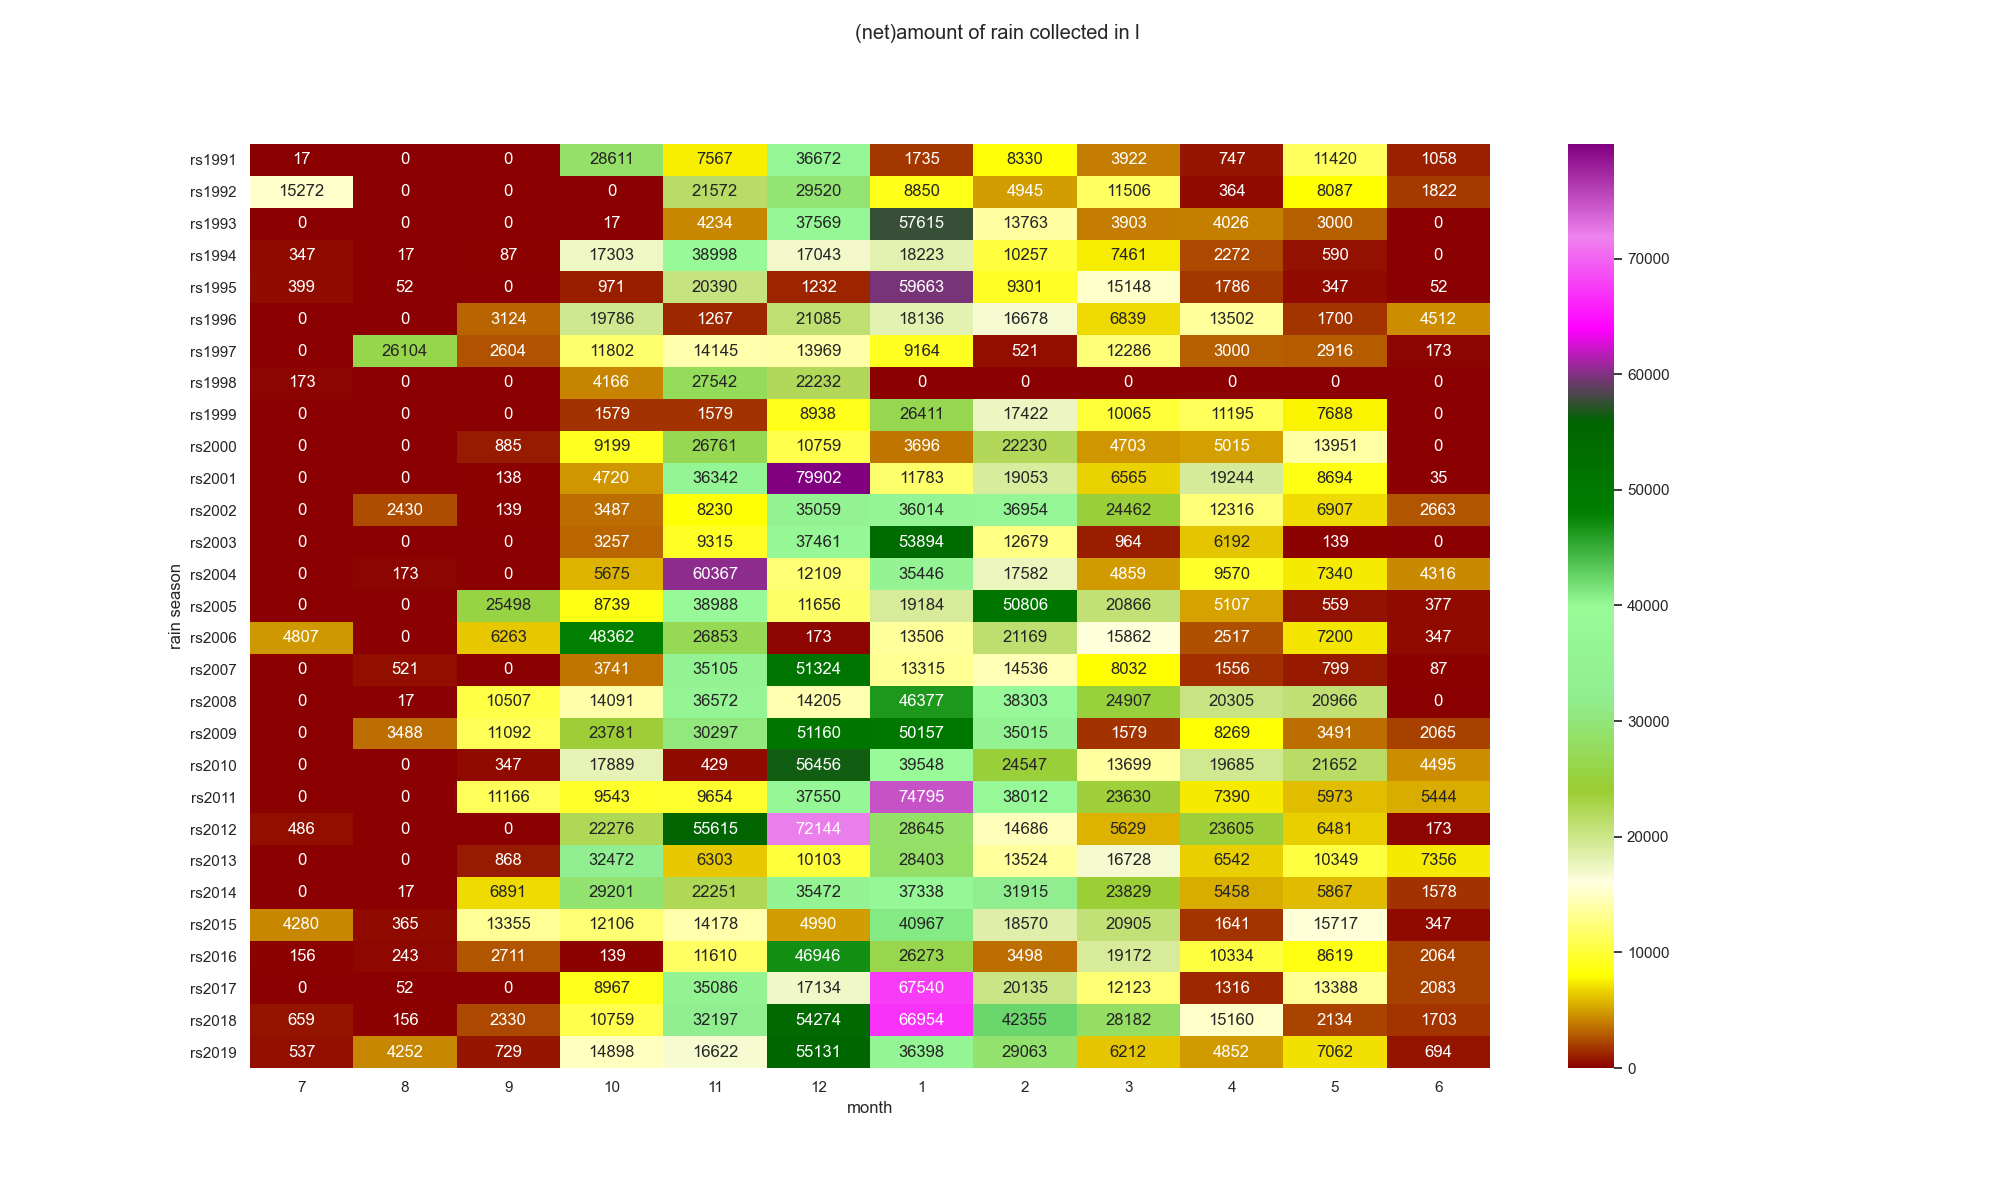
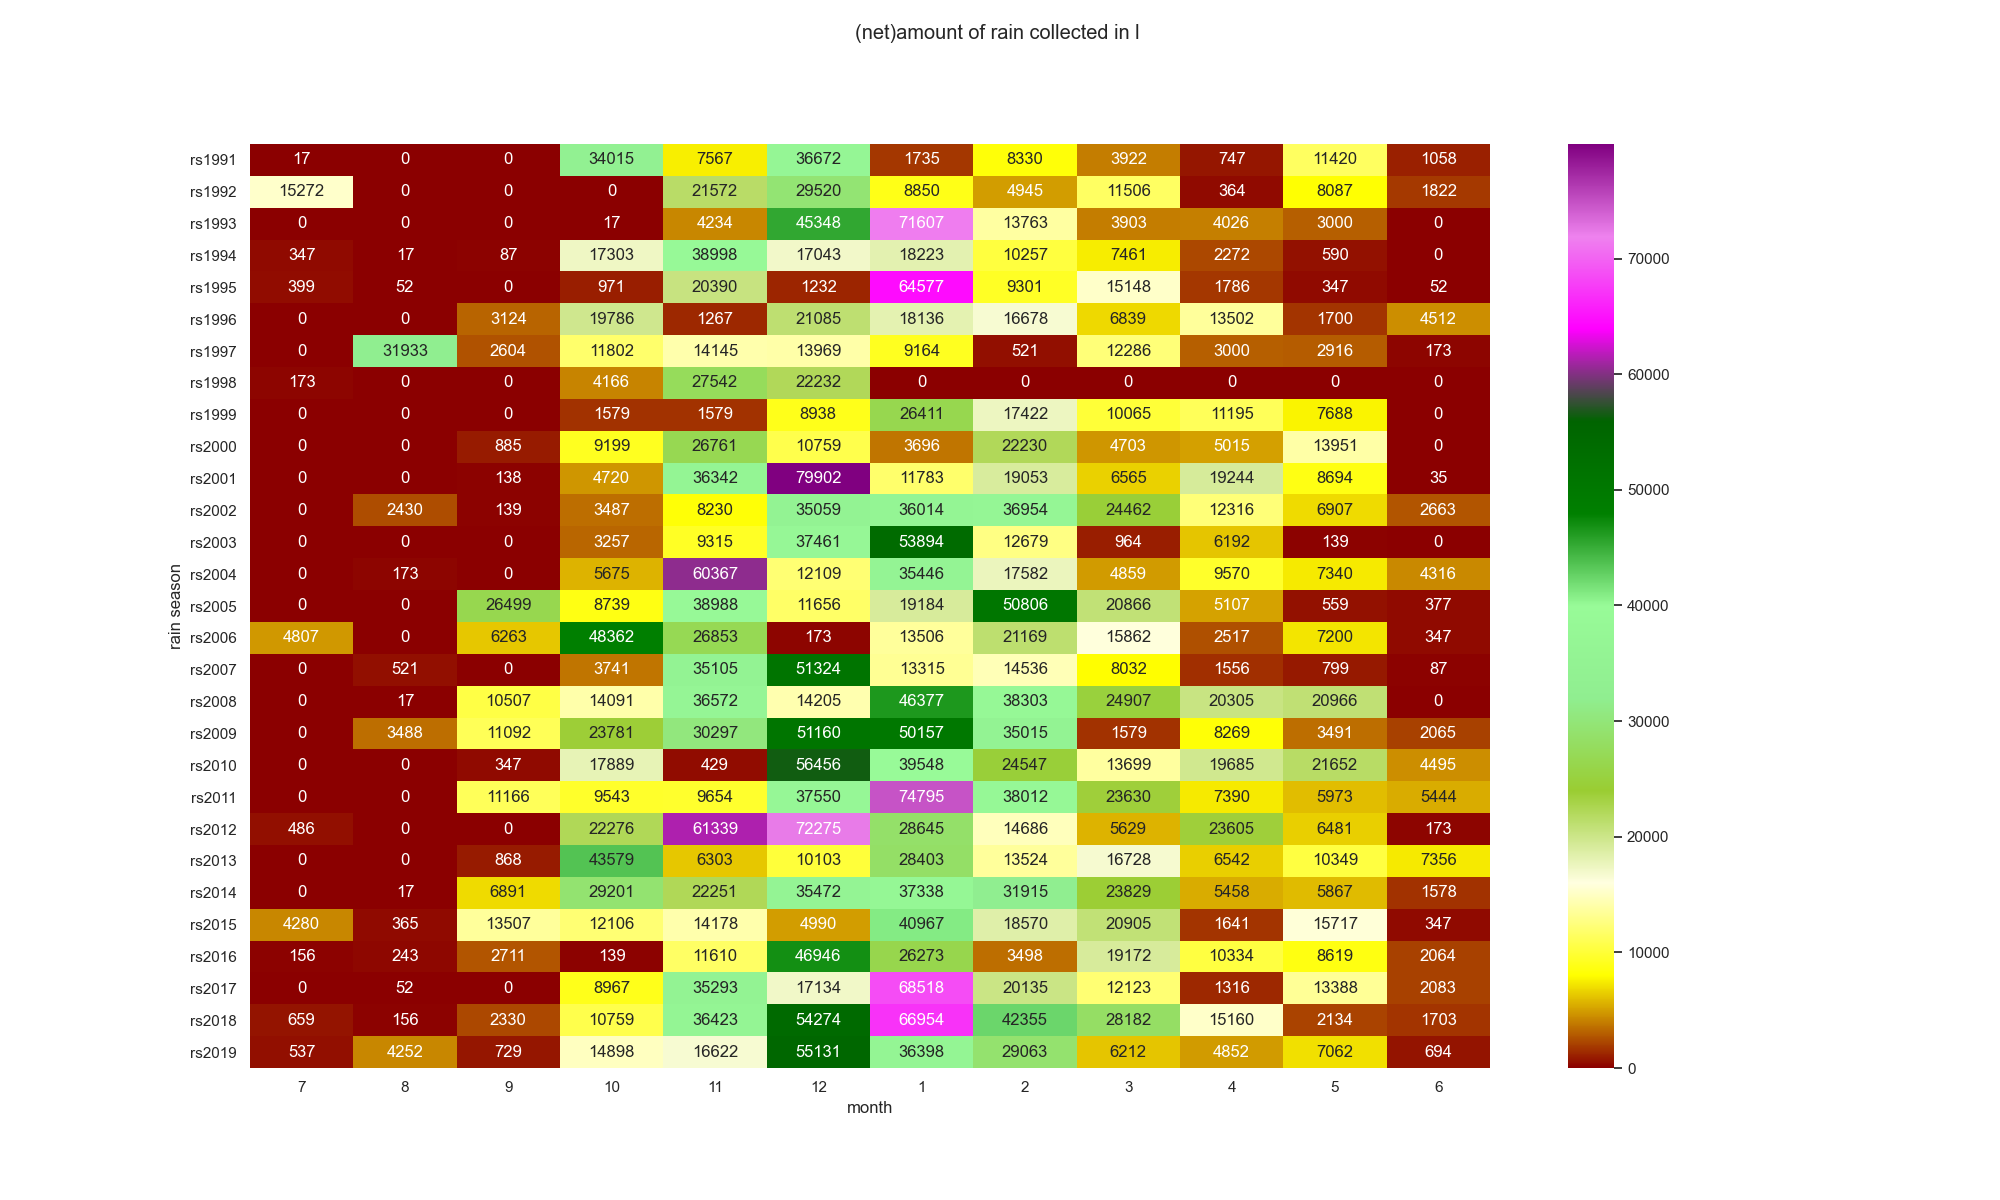
tank sizes changed

diff --git a/scripts/weather_overview.py b/scripts/weather_overview.py
@@ -96,8 +96,8 @@ def init_rwh_data(rwh_data):
 def calc_rwh_collection\
     ( df_tmp
       , roof_name
-      , max_filter_throughput
       , max_pipe_throughput
+      , max_filter_throughput
       , effective_collection_area
       , rain_buffer_volume
       , show_data_overview=False):
@@ -249,6 +249,8 @@ def calc_rwh_system \
                     )
               )
               )
+    rwh_data['tank_empty'] = rwh_data['store_filled_pct'].apply(lambda x: 1 if x == 0.0 else 0).fillna(0)
+    rwh_data['tank_low'] = rwh_data['store_filled_pct'].apply(lambda x: 1 if x <= 0.1 else 0).fillna(0)
 
     if show_data_overview:
         print(rwh_data.info())
@@ -293,6 +295,8 @@ def group_rwh_data_ym(df, group_fields, show_data_overview=False):
              , stored_max=("stored", "max")
              , stored_grp_min=("store_filled_grp", "min")
              , stored_grp_max=("store_filled_grp", "max")
+             , tank_empty_sum=("tank_empty", "sum")
+             , tank_low_sum=("tank_low", "sum")
              , overrun_sum=("overrun", "sum")
              , net_overrun_sum=("net_overrun", "sum")
              , tank_overrun_sum=("tank_overrun", "sum")
@@ -365,20 +369,20 @@ def main():
     # default RWH parameters
     df, df_storm_gr\
         = calc_rwh_collection\
-            (df, "gr_"
-            , 35 # l/minute max_filter_throughput
-            , 870 # l/minute max_pipe_throughput
-            , 93 * 0.85 # effective_collection_area
-            , 3000 # rain_buffer_volume
+            (df, config['dwh']['r1_name']
+            , eval(config['dwh']['r1_max_pipe_throughput'])
+            , eval(config['dwh']['r1_max_filter_throughput'])
+            , eval(config['dwh']['r1_effective_collection_area'])
+            , eval(config['dwh']['r1_rain_buffer_volume'])
             , False
             )
     df, df_storm_mr\
         = calc_rwh_collection\
-            (df, "mr_"
-            , 999 # l/minute max_filter_throughput
-            , 870 # l/minute max_pipe_throughput
-            , 189 * 0.5  # effective_collection_area
-            , 3000 # rain_buffer_volume
+            (df, config['dwh']['r2_name']
+            , eval(config['dwh']['r2_max_pipe_throughput'])
+            , eval(config['dwh']['r2_max_filter_throughput'])
+            , eval(config['dwh']['r2_effective_collection_area'])
+            , eval(config['dwh']['r2_rain_buffer_volume'])
             , False
             )
     df, df_tank\

diff --git a/scripts/draw_charts.py b/scripts/draw_charts.py
@@ -5,10 +5,15 @@ import matplotlib.pyplot as plt
 from matplotlib.colors import LinearSegmentedColormap
 
 import weather_overview as data
+import setup_environment as env
 
 
+"""Show parameters"""
+env.set_pd_environments()
+# constants
+config = env.get_config()
 """Parameters"""
-cat_month = pd.CategoricalDtype([7, 8, 9, 10, 11, 12, 1, 2, 3, 4, 5, 6], ordered=True)
+cat_month = pd.CategoricalDtype(eval(config['dwh']['month_order']), ordered=True)
 
 def chart_wspd_wdir(df_tmp, filename):
     """wind speed vs wind direction chart"""
@@ -174,6 +179,10 @@ chart_ym_heatmap(df_rsm, ["rain_season", "month", "stored_min"]
     , "stored_min_ym", "minimum fill state of the water storage in l ", "month", "rain season", "RdYlGn")
 chart_ym_heatmap(df_rsm, ["rain_season", "month", "stored_max"]
     , "stored_max_ym", "maximum fill state of the water storage in l ", "month", "rain season", "RdYlGn")
+chart_ym_heatmap(df_rsm, ["rain_season", "month", "tank_empty_sum"]
+    , "tank_empty_sum_ym", "# of days the water storage is empty ", "month", "rain season", "coolwarm")
+chart_ym_heatmap(df_rsm, ["rain_season", "month", "tank_low_sum"]
+    , "tank_low_sum_ym", "# of days the water storage is below 10% ", "month", "rain season", "coolwarm")
 
 df_ym.reset_index(drop=False, inplace=True)
 chart_ym_heatmap(df_ym, ["year", "month", "temp_min"]
